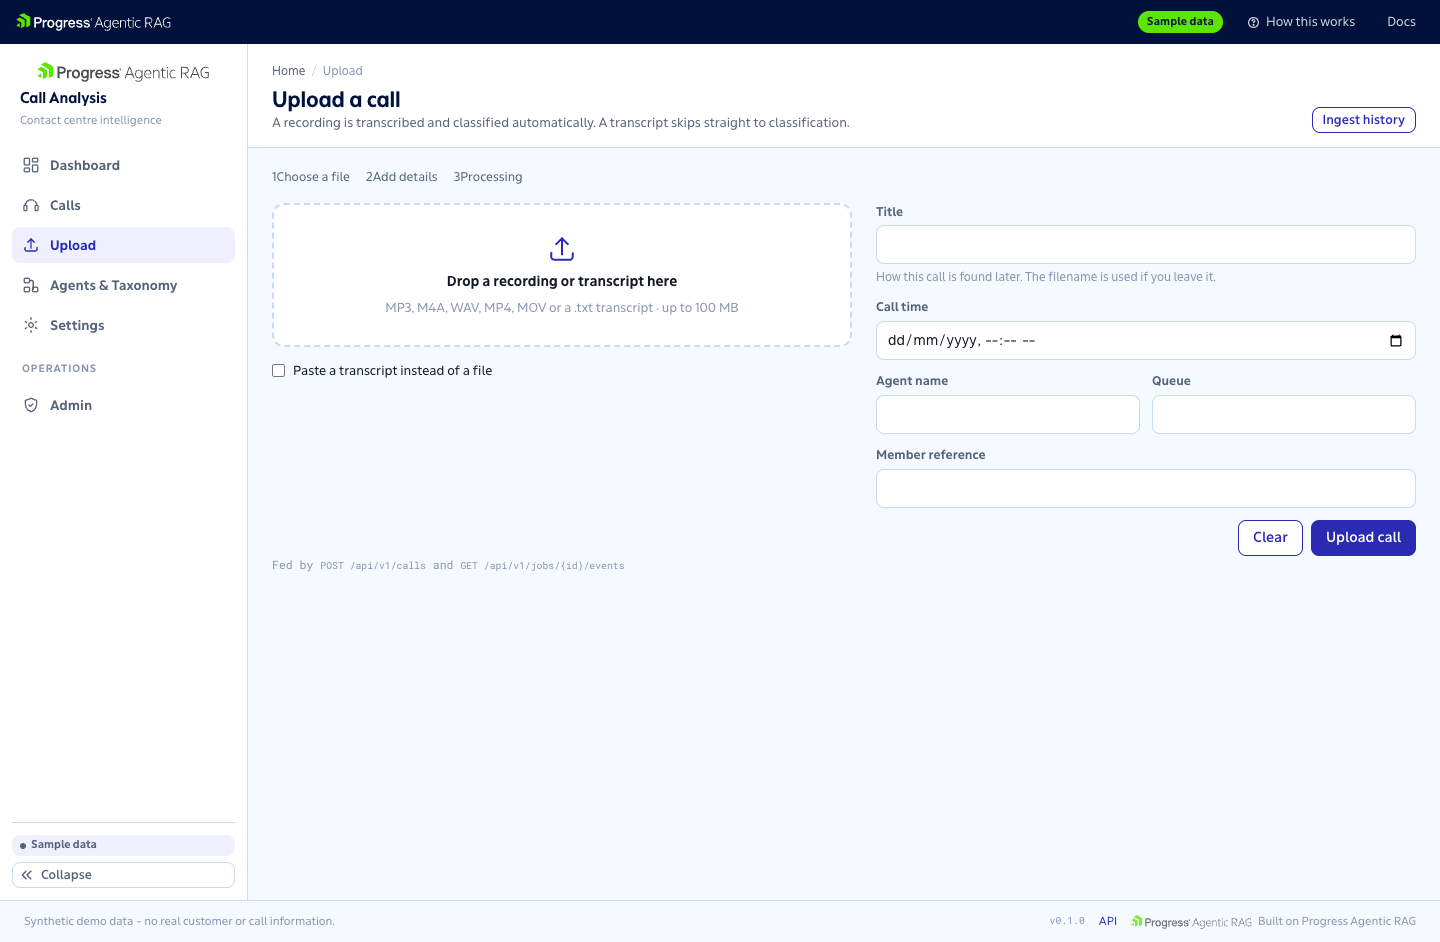
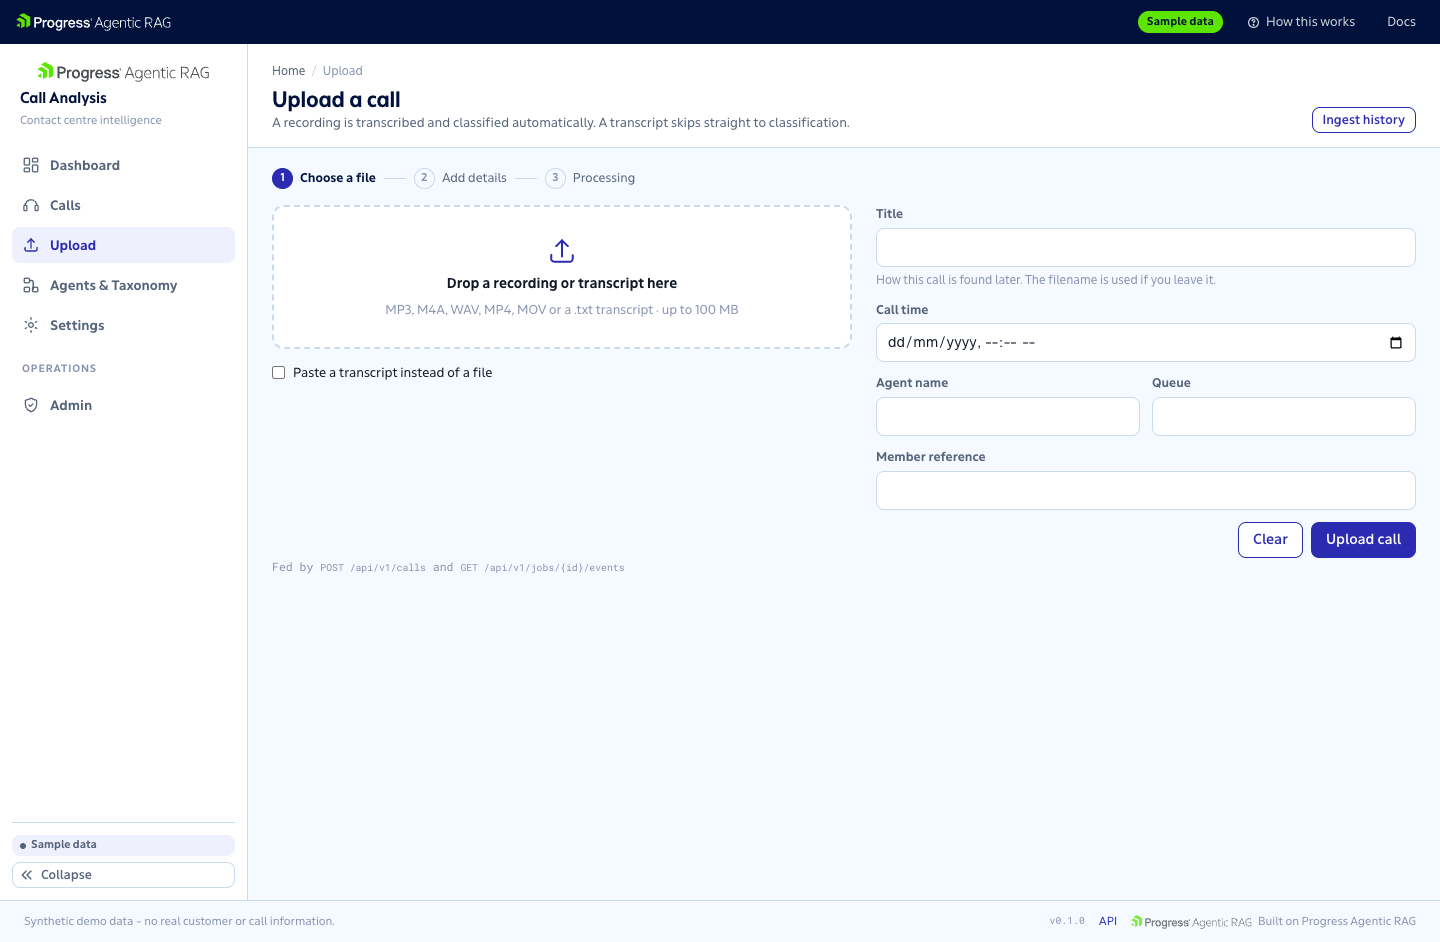
fix: focus trapping, stepper markup, honest rail counts, label type scale
Self-review of the product-experience pass.

- components/kit.tsx: `useModalFocus` gives the drawer and the confirmation
  modal real focus management — focus moves into the overlay, Tab is trapped
  inside it, and focus returns to the trigger on close (guarded for a trigger
  the action itself unmounted). Escape handling moves in with it, so every
  overlay dismisses the same way. The share dialog gets the same treatment.
  Without this a keyboard user tabbed through the page behind the dialog.
- components/upload/UploadFlow.tsx: the stepper rendered as "1Choose a file" —
  each step was wrapped in a span, and the kit styles steps and separators with
  a child combinator, so every rule was silently lost. Flattened to Fragments.
- components/CategoryRails.tsx: a rail badge showed the dashboard's tally while
  the rail showed the label query's results, so "Benefits & Coverage 6" sat
  above three cards. The two counts legitimately differ — one counts
  `call_metrics.call_reason` from the ask agent, the other the `call_reason`
  label from the labeler — so the badge now reports the count its own query
  returned. The text arrow in "See all" becomes an icon.
- components/ui.tsx: `SectionTitle` is the design system's `t-label` step
  (12px/600/0.06em in the text face), not 14px uppercase in the display face.

Claude-Session: https://claude.ai/code/session_01QUMEPj4JqUPxBgWoUVwonZ

diff --git a/components/kit.tsx b/components/kit.tsx
@@ -370,6 +370,57 @@ export function Pagination({
 
 // ───────────────────────────── overlays ─────────────────────────────
 
+/**
+ * Modal focus management: move focus into the overlay, keep Tab inside it, and put focus back
+ * where it was on close.
+ *
+ * Without this, a keyboard user opening a drawer stays on the page behind it — they tab through a
+ * list they cannot see while a dialog covers it — and on close they land back at the top of the
+ * document rather than on the control they pressed. The Escape handler lives here too so every
+ * overlay dismisses the same way.
+ */
+function useModalFocus(ref: React.RefObject<HTMLElement | null>, onClose: () => void) {
+  useEffect(() => {
+    const previous = document.activeElement as HTMLElement | null;
+    const node = ref.current;
+    const focusable = () =>
+      Array.from(
+        node?.querySelectorAll<HTMLElement>(
+          'a[href], button:not([disabled]), input:not([disabled]), select:not([disabled]), textarea:not([disabled]), [tabindex]:not([tabindex="-1"])',
+        ) ?? [],
+      ).filter((el) => el.offsetParent !== null || el === document.activeElement);
+
+    // Focus the first control, or the container itself when there is none to focus.
+    (focusable()[0] ?? node)?.focus();
+
+    const onKey = (e: KeyboardEvent) => {
+      if (e.key === "Escape") {
+        e.stopPropagation();
+        onClose();
+        return;
+      }
+      if (e.key !== "Tab") return;
+      const items = focusable();
+      if (items.length === 0) return;
+      const first = items[0]!;
+      const last = items[items.length - 1]!;
+      if (e.shiftKey && document.activeElement === first) {
+        e.preventDefault();
+        last.focus();
+      } else if (!e.shiftKey && document.activeElement === last) {
+        e.preventDefault();
+        first.focus();
+      }
+    };
+    document.addEventListener("keydown", onKey);
+    return () => {
+      document.removeEventListener("keydown", onKey);
+      // The trigger may have been unmounted by the action the overlay performed; guard for it.
+      if (previous?.isConnected) previous.focus();
+    };
+  }, [ref, onClose]);
+}
+
 export function Drawer({
   title,
   onClose,
@@ -381,15 +432,19 @@ export function Drawer({
   children: React.ReactNode;
   footer?: React.ReactNode;
 }) {
-  useEffect(() => {
-    const onKey = (e: KeyboardEvent) => e.key === "Escape" && onClose();
-    document.addEventListener("keydown", onKey);
-    return () => document.removeEventListener("keydown", onKey);
-  }, [onClose]);
+  const panel = useRef<HTMLElement>(null);
+  useModalFocus(panel, onClose);
   return (
     <>
       <div className="arag-drawer-backdrop" onClick={onClose} role="presentation" />
-      <aside className="arag-drawer" role="dialog" aria-modal="true" aria-label={title}>
+      <aside
+        ref={panel}
+        className="arag-drawer"
+        role="dialog"
+        aria-modal="true"
+        aria-label={title}
+        tabIndex={-1}
+      >
         <div className="head">
           <h2>{title}</h2>
           <button type="button" className="arag-btn ghost sm close" onClick={onClose} aria-label="Close">
@@ -425,18 +480,17 @@ export function ConfirmDialog({
   onCancel: () => void;
   busy?: boolean;
 }) {
-  useEffect(() => {
-    const onKey = (e: KeyboardEvent) => e.key === "Escape" && onCancel();
-    document.addEventListener("keydown", onKey);
-    return () => document.removeEventListener("keydown", onKey);
-  }, [onCancel]);
+  const panel = useRef<HTMLDivElement>(null);
+  useModalFocus(panel, onCancel);
   return (
     <div className="arag-modal-backdrop" onClick={onCancel} role="presentation">
       <div
+        ref={panel}
         className="arag-modal"
         role="dialog"
         aria-modal="true"
         aria-label={title}
+        tabIndex={-1}
         onClick={(e) => e.stopPropagation()}
       >
         <div className="head">

diff --git a/components/CategoryRails.tsx b/components/CategoryRails.tsx
@@ -4,6 +4,7 @@ import Link from "next/link";
 import { useEffect, useState } from "react";
 import type { CallSummary } from "@/lib/types";
 import { CallCard } from "./CallCard";
+import { IconChevronRight } from "./icons";
 
 type Datum = { name: string; value: number };
 
@@ -36,13 +37,26 @@ export function CategoryRails({ byReason, bySentiment }: { byReason: Datum[]; by
 
 function Rail({ labelset, name, count }: { labelset: string; name: string; count: number }) {
   const [calls, setCalls] = useState<CallSummary[] | null>(null);
+  /**
+   * The badge shows the count the *rail's own query* returns, not the dashboard tally.
+   *
+   * The two can legitimately differ: the dashboard counts `call_metrics.call_reason`, written by
+   * the ask agent, while a rail filters on the `call_reason/...` label, applied by the labeler
+   * agent. A badge reading 6 above a rail of 3 cards is the product calling itself a liar, so the
+   * dashboard number is only a placeholder until the real one arrives.
+   */
+  const [total, setTotal] = useState<number>(count);
   const href = `/calls?label=${encodeURIComponent(`${labelset}/${name}`)}`;
 
   useEffect(() => {
     let cancelled = false;
     fetch(`/api/v1/calls?page_size=10&label=${encodeURIComponent(`${labelset}/${name}`)}`)
       .then((r) => r.json())
-      .then((d) => !cancelled && setCalls((d.items ?? []).slice(0, 10)))
+      .then((d) => {
+        if (cancelled) return;
+        setCalls((d.items ?? []).slice(0, 10));
+        if (typeof d.total === "number") setTotal(d.total);
+      })
       .catch(() => !cancelled && setCalls([]));
     return () => {
       cancelled = true;
@@ -55,11 +69,15 @@ function Rail({ labelset, name, count }: { labelset: string; name: string; count
         <h2 className="flex items-center gap-2 font-display text-base font-semibold text-ink-950">
           {name}
           <span className="rounded-md bg-brand-50 px-1.5 py-0.5 text-[11px] font-semibold text-brand-700">
-            {count}
+            {total}
           </span>
         </h2>
-        <Link href={href} className="text-xs font-medium text-brand-600 hover:underline">
-          See all →
+        <Link
+          href={href}
+          className="inline-flex items-center gap-1 text-xs font-medium text-brand-600 hover:underline"
+        >
+          See all
+          <IconChevronRight size={13} />
         </Link>
       </div>
       <div className="scroll-thin-x flex gap-3 overflow-x-auto pb-2">

diff --git a/components/calls/CallActions.tsx b/components/calls/CallActions.tsx
@@ -1,7 +1,7 @@
 "use client";
 
 import { useRouter } from "next/navigation";
-import { useCallback, useEffect, useState } from "react";
+import { useCallback, useEffect, useRef, useState } from "react";
 import { IconCopy, IconExport, IconRefresh, IconShare, IconTrash } from "@/components/icons";
 import { ConfirmDialog, KebabMenu, useToast } from "@/components/kit";
 import { fmtDateTime } from "@/lib/format";
@@ -182,6 +182,7 @@ function ShareDialog({
   const [links, setLinks] = useState<ShareLink[] | null>(null);
   const [days, setDays] = useState(7);
   const [busy, setBusy] = useState(false);
+  const panel = useRef<HTMLDivElement>(null);
 
   const load = useCallback(() => {
     fetch(`/api/v1/calls/${callId}/shares`)
@@ -220,13 +221,23 @@ function ShareDialog({
 
   const live = (links ?? []).filter((l) => !l.revoked && !l.expired);
 
+  // Escape closes, and focus starts on the first control rather than behind the overlay.
+  useEffect(() => {
+    const onKey = (e: KeyboardEvent) => e.key === "Escape" && onClose();
+    document.addEventListener("keydown", onKey);
+    panel.current?.querySelector<HTMLElement>("select, button, input")?.focus();
+    return () => document.removeEventListener("keydown", onKey);
+  }, [onClose]);
+
   return (
     <div className="arag-modal-backdrop" onClick={onClose} role="presentation">
       <div
+        ref={panel}
         className="arag-modal"
         role="dialog"
         aria-modal="true"
         aria-label="Share this call"
+        tabIndex={-1}
         onClick={(e) => e.stopPropagation()}
       >
         <div className="head">

diff --git a/components/upload/UploadFlow.tsx b/components/upload/UploadFlow.tsx
@@ -1,7 +1,7 @@
 "use client";
 
 import Link from "next/link";
-import { useEffect, useRef, useState } from "react";
+import { Fragment, useEffect, useRef, useState } from "react";
 import { IconUpload } from "@/components/icons";
 import { ErrorState, useToast } from "@/components/kit";
 
@@ -347,14 +347,16 @@ function Stepper({ step }: { step: number }) {
   const steps = ["Choose a file", "Add details", "Processing"];
   return (
     <div className="arag-stepper" data-testid="upload-stepper">
+      {/* The steps and separators are direct children of the stepper: the kit styles them with a
+          child combinator, and wrapping each pair in a span silently loses every rule. */}
       {steps.map((label, i) => (
-        <span key={label} style={{ display: "inline-flex", alignItems: "center", gap: 8 }}>
+        <Fragment key={label}>
           {i > 0 && <span className="sep" />}
           <span className={`step${step === i + 1 ? " current" : step > i + 1 ? " done" : ""}`}>
             <span className="n">{i + 1}</span>
             {label}
           </span>
-        </span>
+        </Fragment>
       ))}
     </div>
   );
